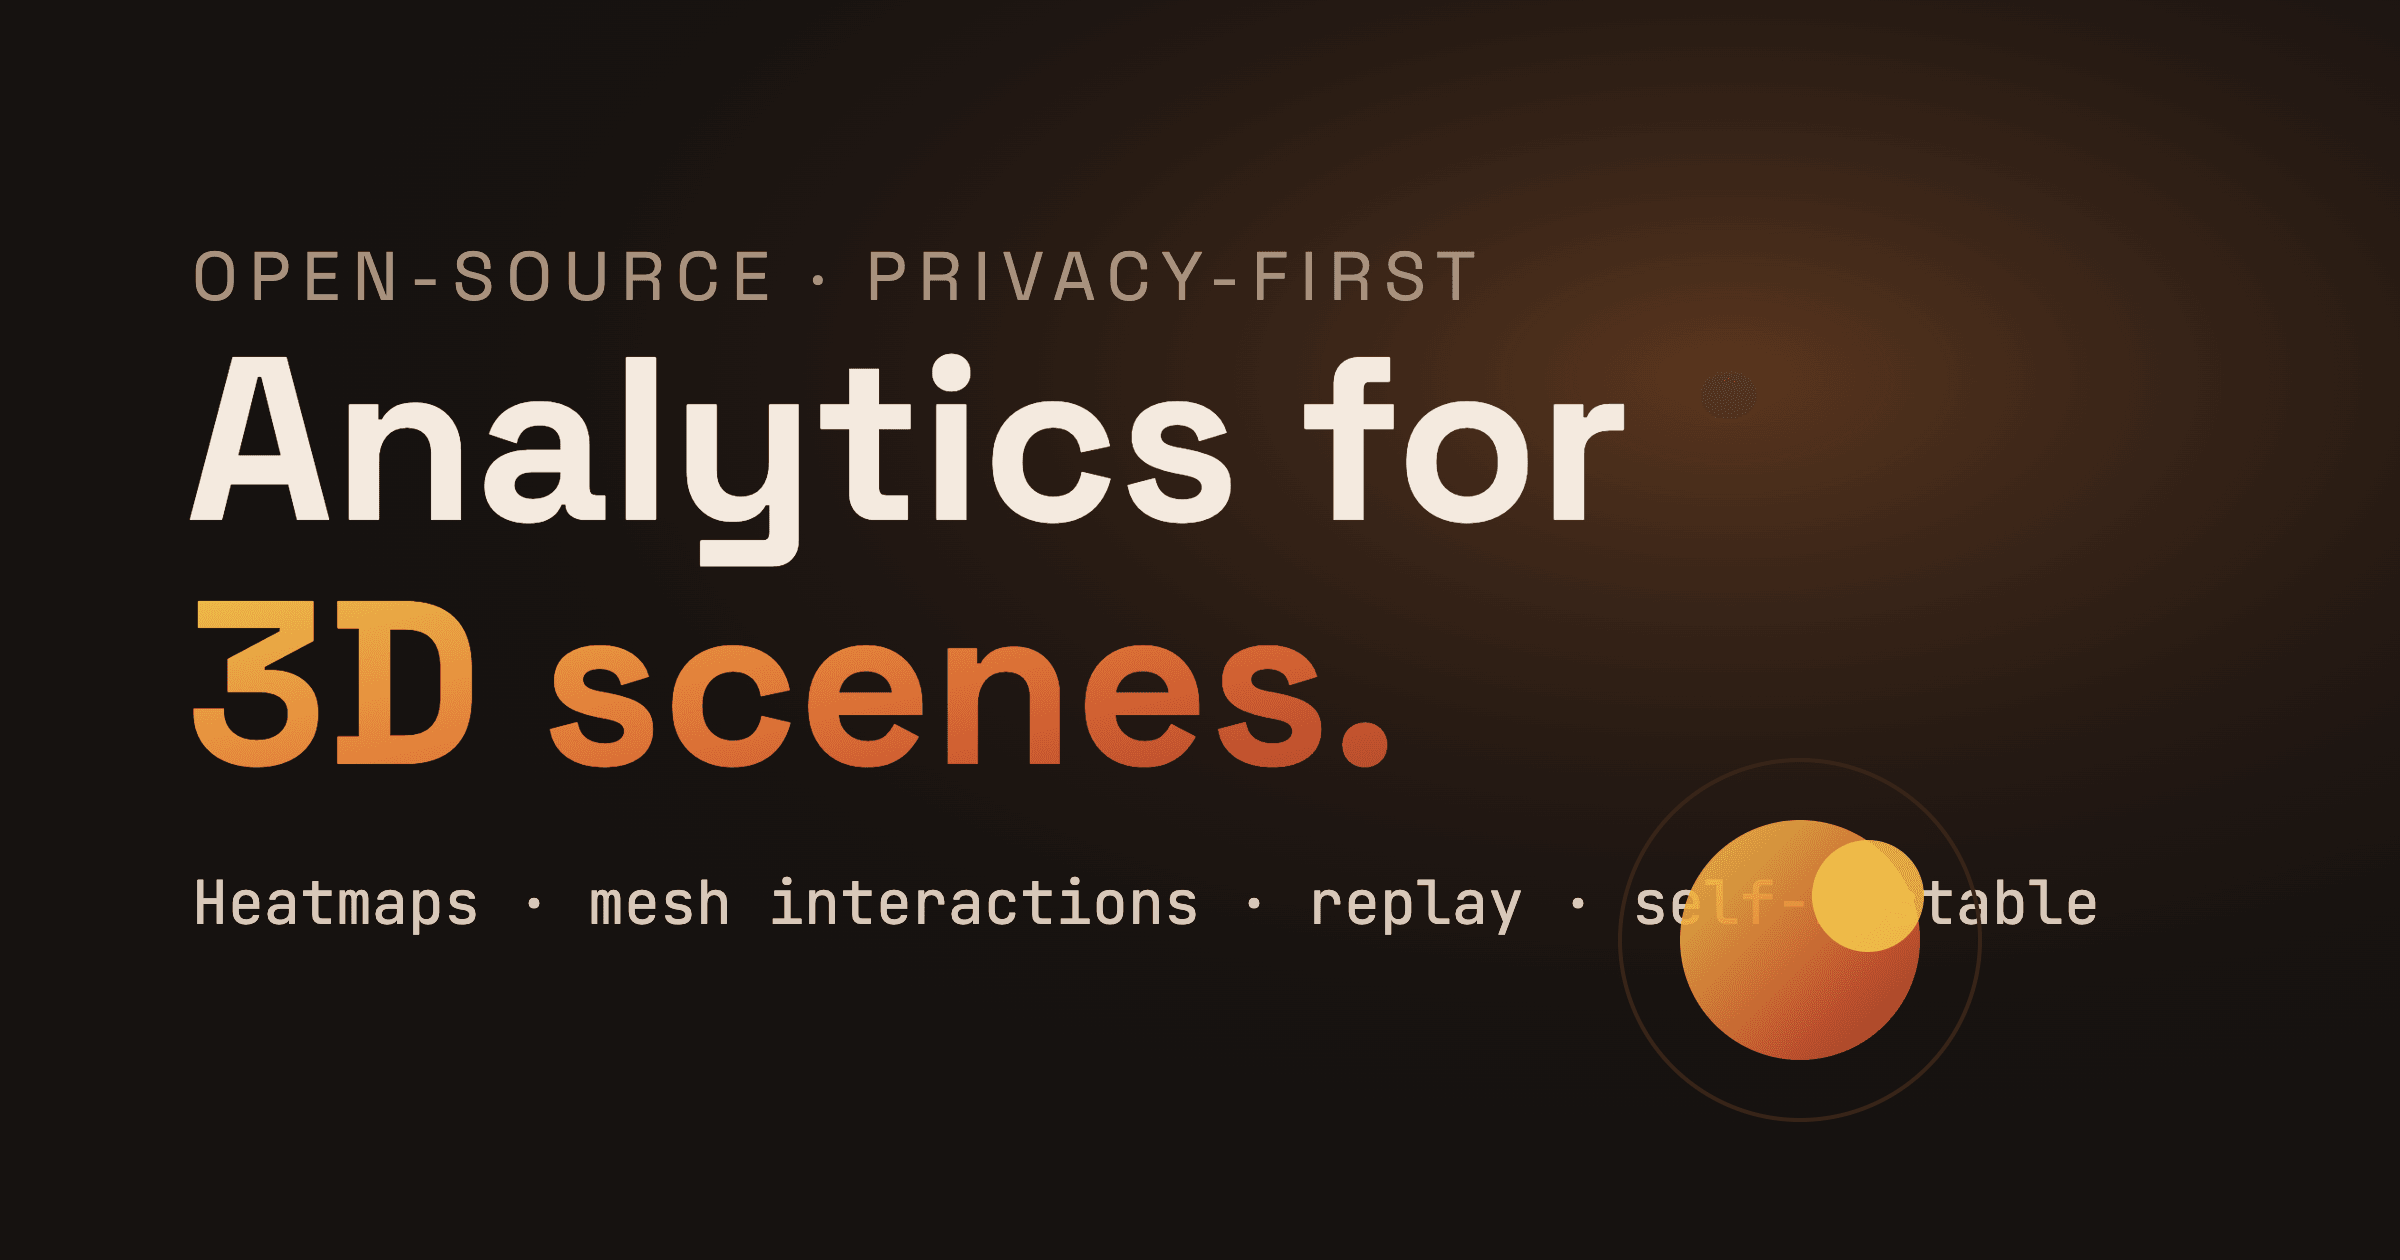
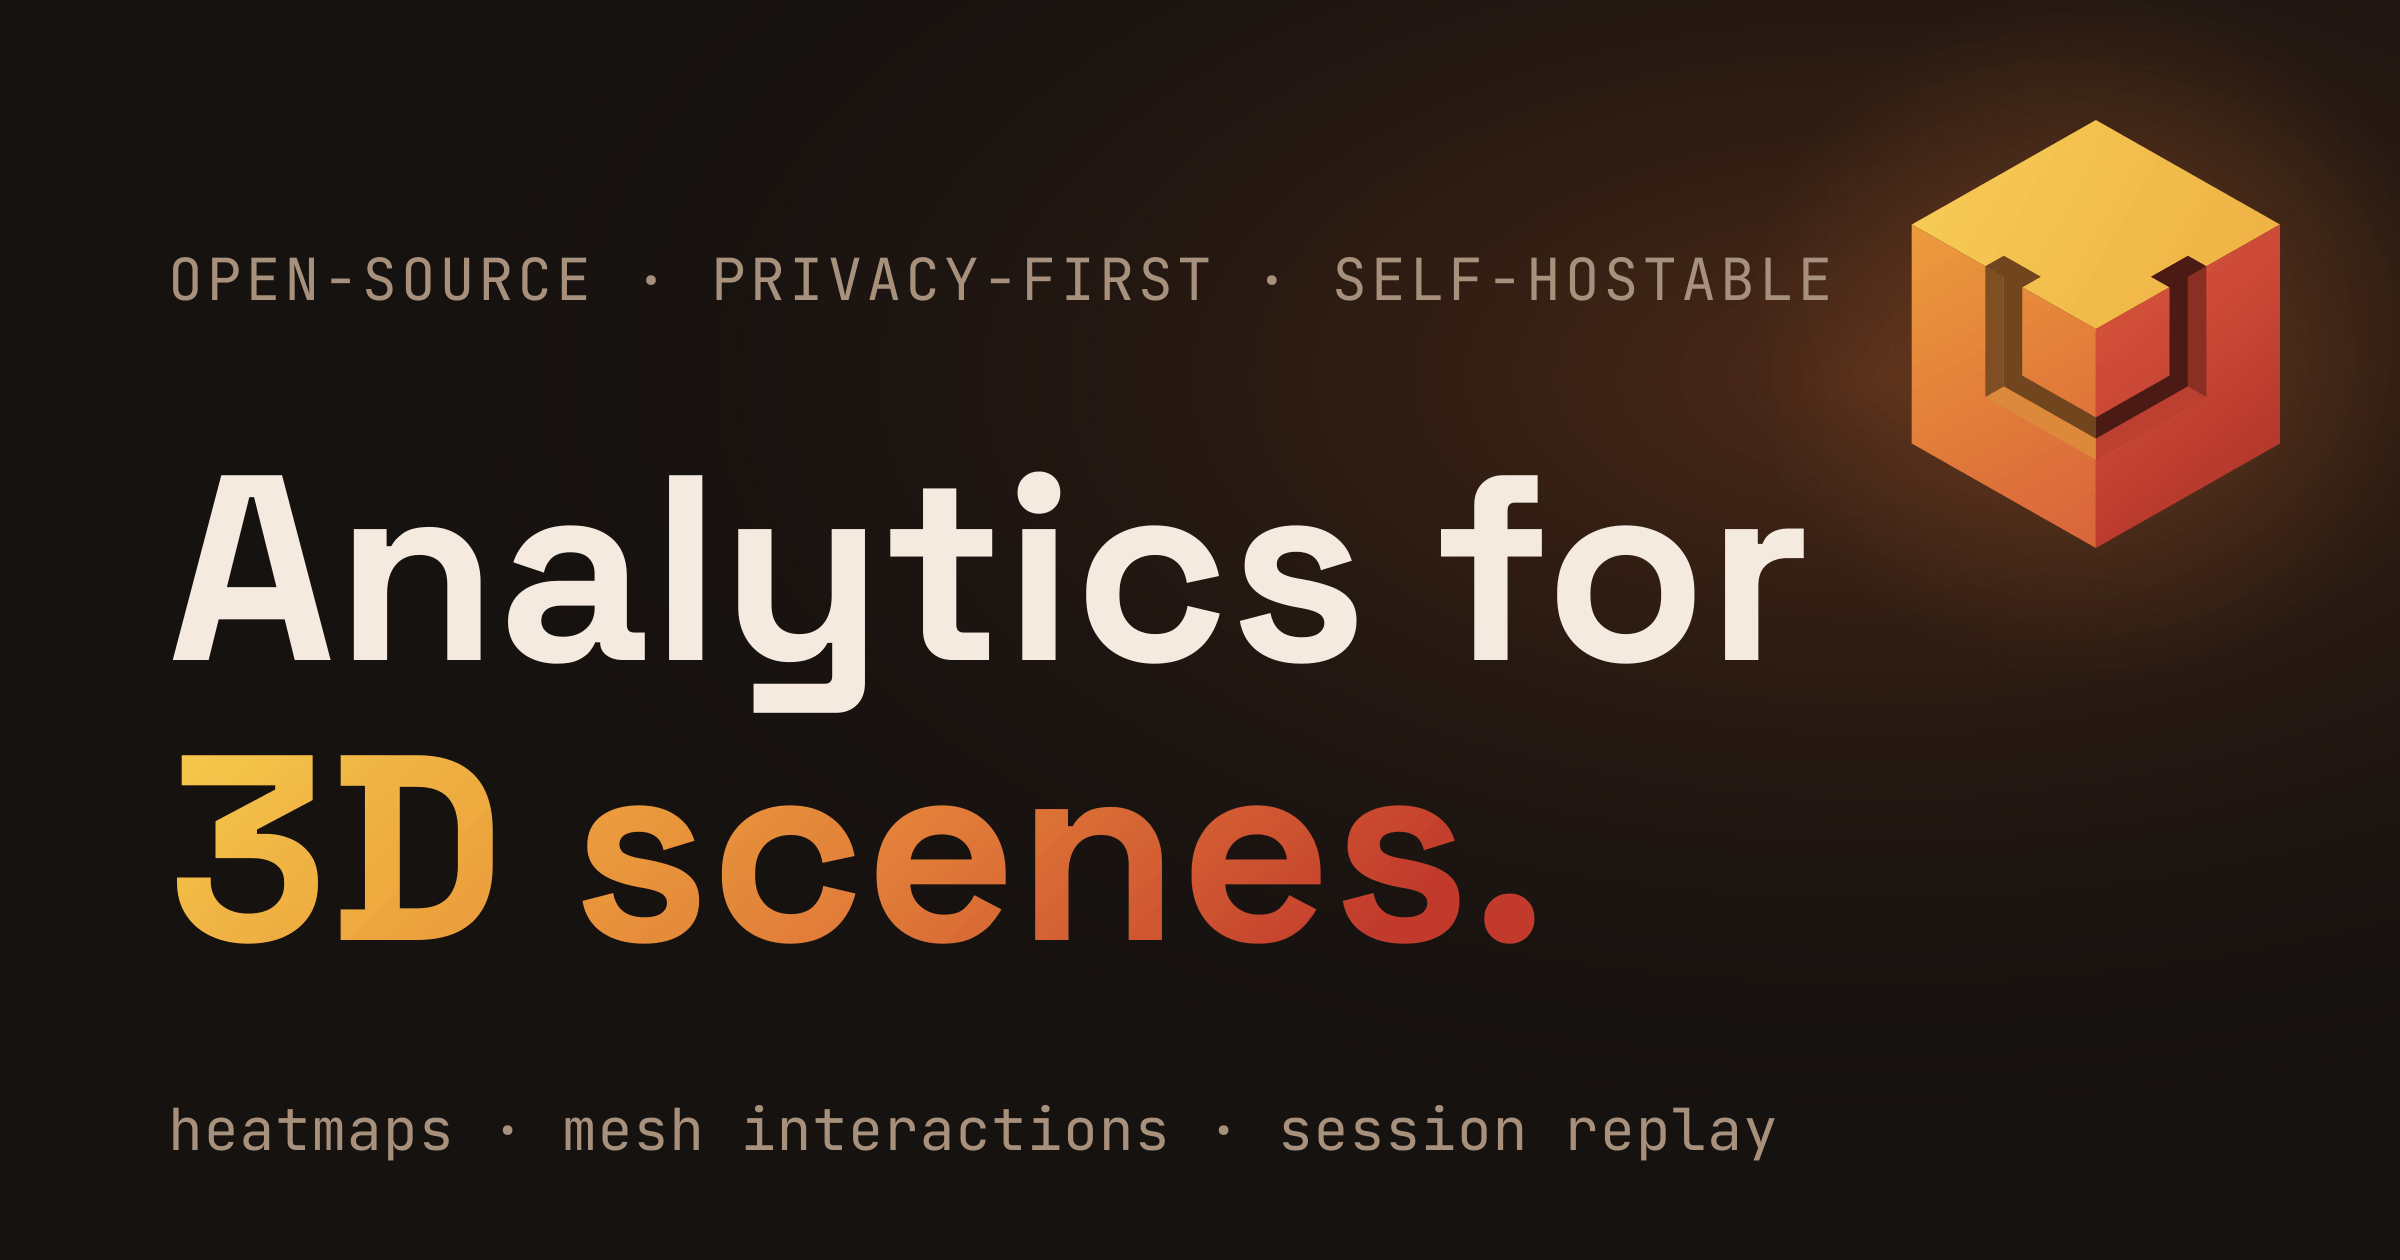
fix(web): regenerate social card so footer text isn't hidden (#49)
* fix(web): regenerate social card so footer text isn't hidden

The og.png social-sharing image had a decorative sphere in the bottom-right corner that covered the last two words of the footer line. Replace the sphere with the brand cube mark placed top-right, clear of all copy, and rebuild the card from a new reproducible generator (docs/design/gen-og.mjs): Space Grotesk Bold headline + JetBrains Mono eyebrow/footer, all outlined to vector paths via fontkit, rasterised and compressed to a 2x palette PNG with sharp.

Also tidy the copy: move 'self-hostable' into the eyebrow attributes (OPEN-SOURCE - PRIVACY-FIRST - SELF-HOSTABLE) and make the footer a parallel feature list (heatmaps - mesh interactions - session replay). Adds fontkit, wawoff2 and sharp as dev tooling.

* chore: format changeset with prettier (add trailing newline)

diff --git a/docs/design/brand-guidelines.md b/docs/design/brand-guidelines.md
@@ -32,6 +32,7 @@ generators live alongside the assets:
 - [gen-logo-ubreak.mjs](gen-logo-ubreak.mjs) — the cube + U groove (promoted to `logo.svg`).
 - [gen-lockup.mjs](gen-lockup.mjs) — the horizontal lockup.
 - [gen-brand-assets.mjs](gen-brand-assets.mjs) — the transparent and monochrome marks.
+- [gen-og.mjs](gen-og.mjs) — the social-sharing card (`oss/apps/web/public/og.png`).
 
 Regenerate everything with:
 
@@ -40,7 +41,15 @@ cd docs/design
 node gen-logo-ubreak.mjs > logo-ubreak.svg   # optional: refresh the source mark
 node gen-lockup.mjs                            # logo-lockup*.svg
 node gen-brand-assets.mjs                      # logo-transparent.svg, logo-mono.svg
+node gen-og.mjs                                # oss/apps/web/public/og.png
 ```
+
+The Open Graph card (`gen-og.mjs`) sets the headline in Space Grotesk Bold and
+the eyebrow/footer in JetBrains Mono, outlines all copy to vector paths with
+`fontkit` (so it renders without the fonts installed), embeds the cube mark
+top-right, and rasterises to a 2x (2400x1260) palette PNG with `sharp`. It needs
+the `fontkit`, `wawoff2`, and `sharp` devDependencies plus the `@fontsource`
+fonts shipped with `@uptimizr/web`.
 
 ### Clear space & minimum size
 

diff --git a/.changeset/shy-guests-brake.md b/.changeset/shy-guests-brake.md
@@ -1,0 +1,4 @@
+---
+---
+
+chore: regenerate the social-sharing card (og.png) so the bottom-right corner no longer hides the footer text, replace the decorative sphere with the brand cube mark, and tidy the eyebrow/footer copy. Adds a reproducible generator (docs/design/gen-og.mjs). No package changes.